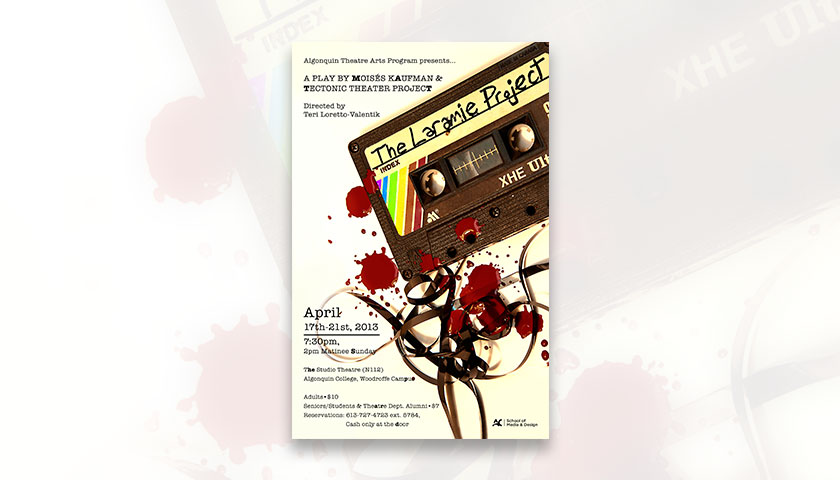
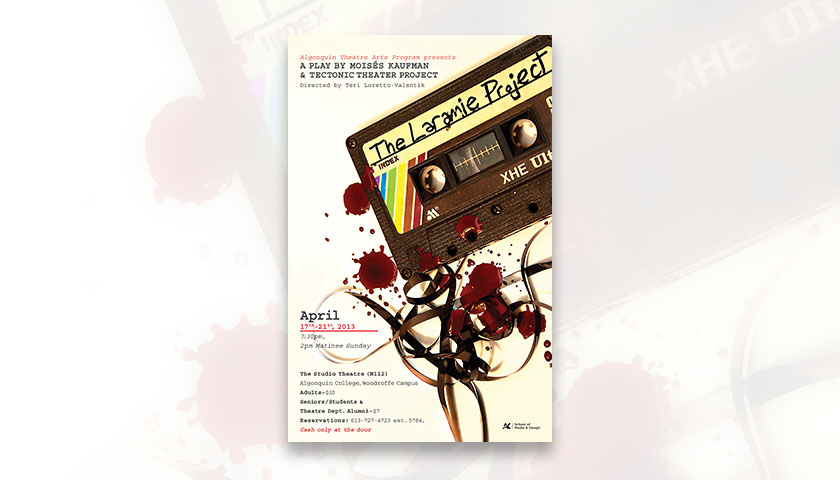
revive Laramie Project Poster

Changed region(s): [[0.3405, 0.0625, 0.681, 0.9375]]

diff --git a/ajax/project1.html b/ajax/project1.html
@@ -14,7 +14,7 @@
                 <span>Chosen design to represent the Algonquin college theatre production of The Laramie Project, a play by Moisés Kaufman and members of the Tectonic Theater Project.</span>
             </div>
              <div class="cbp-l-project-desc-text">
-                <p>Based on a true story, the play is a re-interpretation of interview accounts of the people of Laramie, Wyoming which document their reactions after the murder of Matthew Shepard; a hate crime against a gay man.</p><p>This poster seeks to present the violence in a way that captures the viewer’s attention without totally revealing the details. The copy is set in <em>American Typewriter</em> to further emphasize the factual and serious content of the play. By attracting an audience to the play, the poster took a small role in delivering the message of tolerance.</p></div>
+                <p>Based on a true story, the play is a re-interpretation of interview accounts of the people of Laramie, Wyoming which document their reactions after the murder of Matthew Shepard; a hate crime against a gay man.</p><p>This poster seeks to present the violence in a way that captures the viewer’s attention without totally revealing the details. The copy is set in <em>Courier Std</em> to further emphasize the factual and serious content of the play. By attracting an audience to the play, the poster took a small role in delivering the message of tolerance.</p></div>
         </div>
     </div>
 
